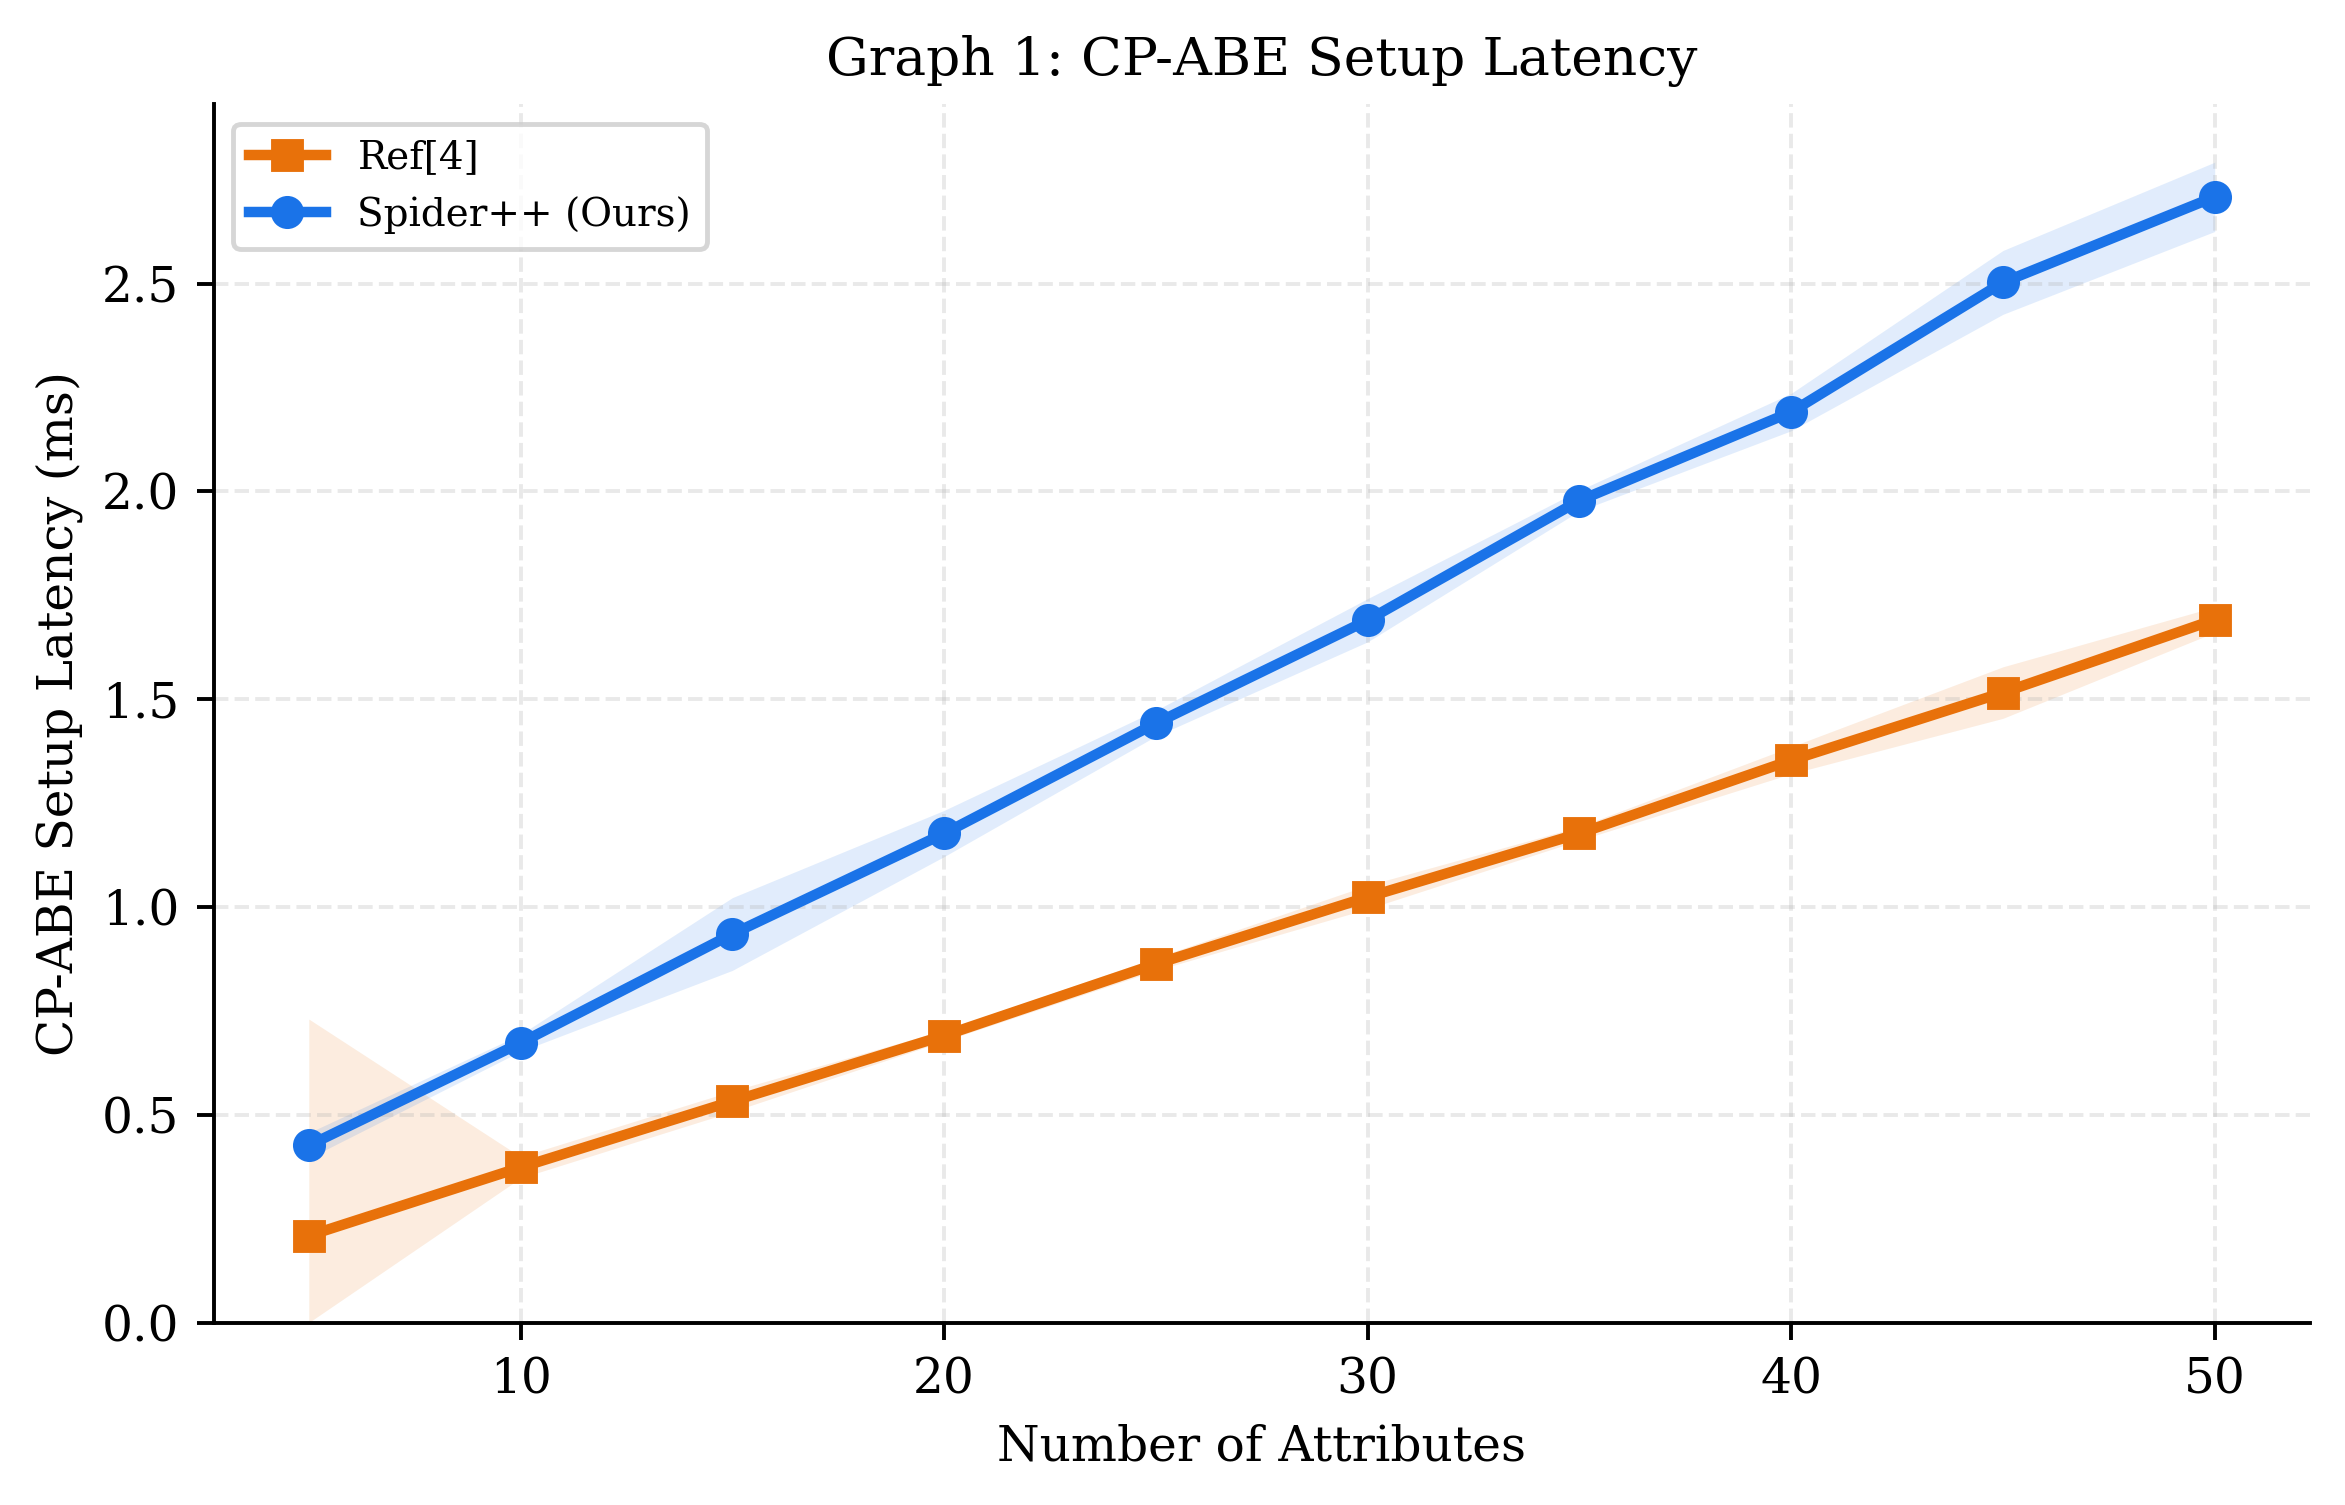
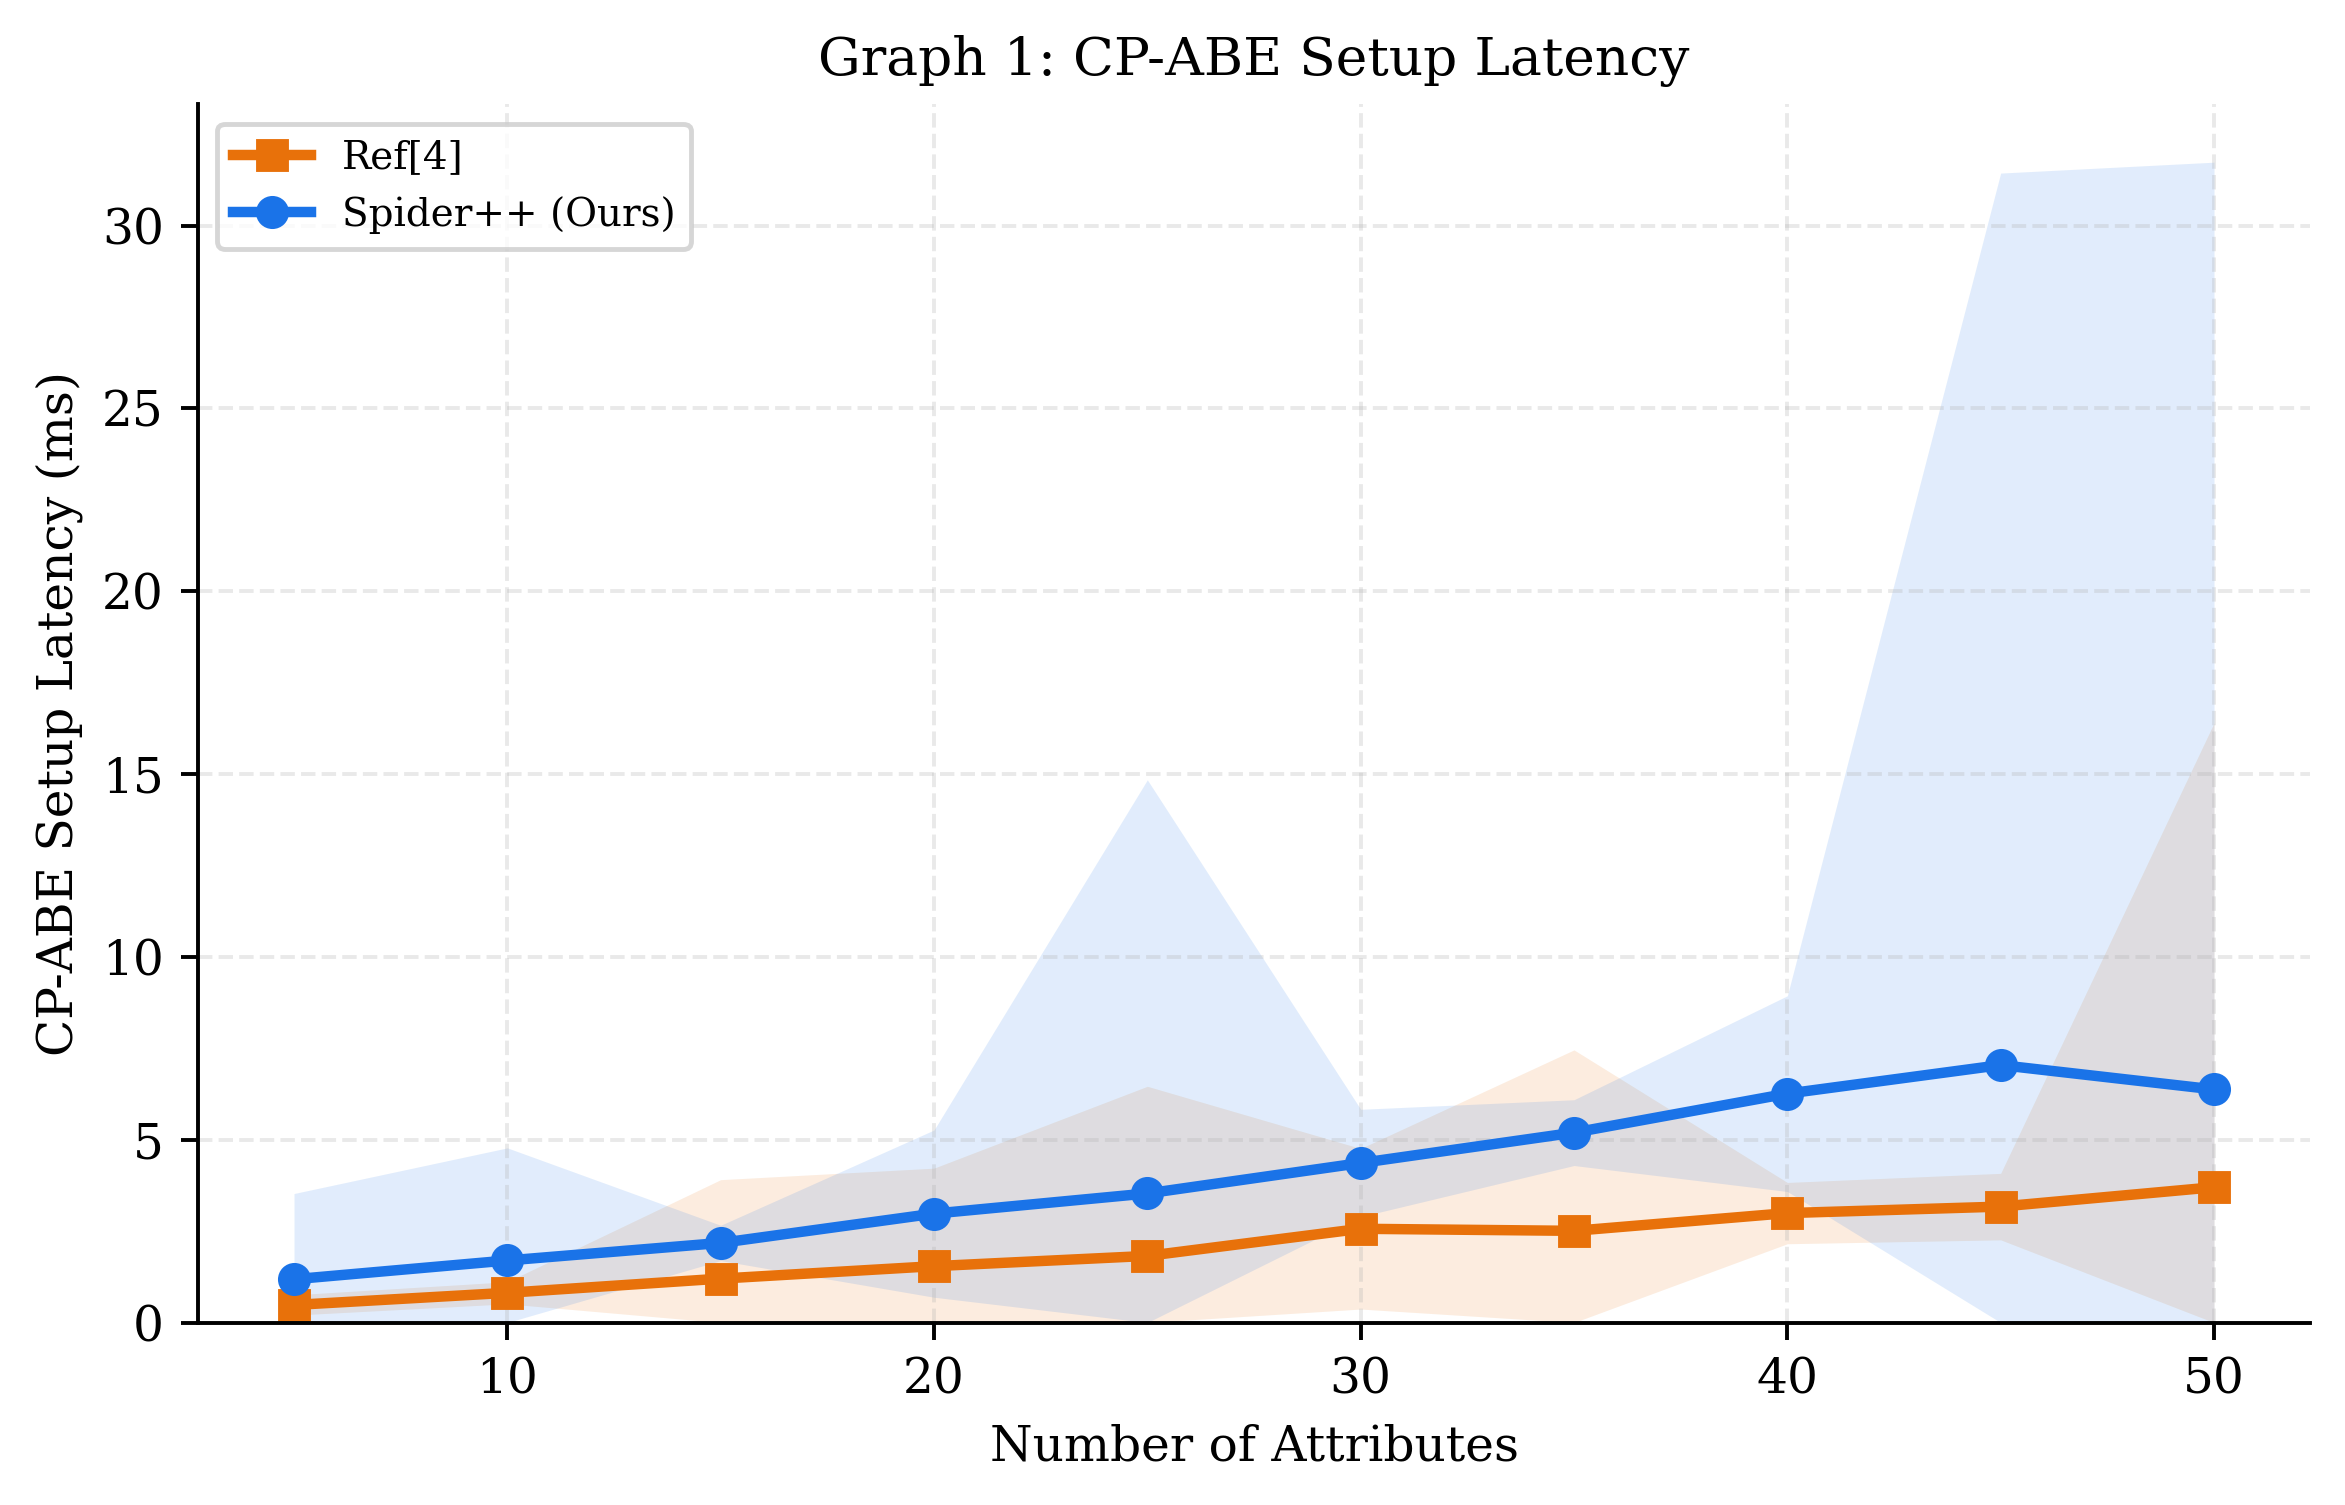
graph 7

diff --git a/evaluation/spiderpp_full_evaluation.py b/evaluation/spiderpp_full_evaluation.py
@@ -121,6 +121,8 @@ SCHEME_STYLES = {
     "Random Cache Placement": {"color": "#34A853", "marker": "s"},
     "No Delegation": {"color": "#E8710A", "marker": "x"},
     "Simple Retry / Reassignment": {"color": "#34A853", "marker": "v"},
+    "Round-Robin": {"color": "#E8710A", "marker": "s"},
+    "Least-Queue": {"color": "#34A853", "marker": "^"},
 }
 
 
@@ -1087,6 +1089,249 @@ def graph_load_balancing(
     return mean_series
 
 
+# ---------------------------------------------------------------------------
+# Part C-2: Intra-node enclave scheduling (Graph 7, Level 2)
+# ---------------------------------------------------------------------------
+
+
+@dataclass
+class Enclave:
+    """Single TEE enclave within a fog node (Eq 26 state model)."""
+
+    enc_id: int
+    service_rate: float       # µ_{j,k}  — ops/sec from OP-TEE benchmark
+    epc_total: float          # M_total  — bytes
+    epc_available: float      # M_free   — bytes (depletes per task)
+    contention: float = 0.0   # ρ_{j,k}  — runtime contention
+    queue_length: int = 0     # q_{j,k}  — current queue depth
+    available_ms: float = 0.0 # earliest time enclave becomes free
+    recent_count: int = 0     # workload affinity counter (Eq 45)
+
+
+def clone_enclaves(enclaves: List[Enclave]) -> List[Enclave]:
+    """Deep-copy enclave list so each algorithm starts from identical state."""
+    return [
+        Enclave(
+            enc_id=e.enc_id,
+            service_rate=e.service_rate,
+            epc_total=e.epc_total,
+            epc_available=e.epc_total,
+            contention=e.contention,
+            queue_length=0,
+            available_ms=0.0,
+            recent_count=0,
+        )
+        for e in enclaves
+    ]
+
+
+def generate_enclaves(n_enclaves: int, rng: np.random.Generator) -> List[Enclave]:
+    """
+    Create an enclave pool initialized from real OP-TEE measurements.
+    Falls back to config.py defaults if QEMU has not been run.
+    """
+    import config
+    from phase4_load_balance.optee_bench.loader import load_measurements
+
+    measurements = load_measurements(config)
+
+    base_rate = float(measurements.get("service_rate", config.MEASURED_SERVICE_RATE))
+    base_cont = float(measurements.get("contention", 0.0))
+    epc_per_enclave = config.EPC_BUDGET_BYTES / max(1, n_enclaves)
+
+    enclaves: List[Enclave] = []
+    for i in range(n_enclaves):
+        rate = max(10.0, base_rate * float(rng.uniform(0.92, 1.08)))
+        enclaves.append(
+            Enclave(
+                enc_id=i,
+                service_rate=rate,
+                epc_total=epc_per_enclave,
+                epc_available=epc_per_enclave,
+                contention=base_cont,
+            )
+        )
+    return enclaves
+
+
+def _enclave_score_eq46(
+    enc: Enclave,
+    epc_req: float,
+    tau: float,
+    z1: float, z2: float, z3: float, z4: float,
+) -> float:
+    """
+    Spider++ EnclaveScore (Eq 46) — mirrors phase4_load_balance/ours.py.
+
+    EnclaveScore = z1*T_wait + z2*P_epc + z3*P_cont - z4*A_affin
+    """
+    # Eq 42: T_wait = (q + 1) / mu
+    T_wait = (enc.queue_length + 1) / max(1.0, enc.service_rate)
+
+    # Eq 43: P_epc = max(0, M_req/M_free - tau)^2
+    M_free = max(1.0, enc.epc_available)
+    ratio = epc_req / M_free - tau
+    P_epc = max(0.0, ratio) ** 2
+
+    # Eq 44: P_cont = base_contention + q/mu (dynamic)
+    P_cont = enc.contention + enc.queue_length / max(1.0, enc.service_rate)
+
+    # Eq 45: A = 1 if similar workload recently processed
+    A_affin = 1.0 if enc.recent_count > 0 else 0.0
+
+    return z1 * T_wait + z2 * P_epc + z3 * P_cont - z4 * A_affin
+
+
+def choose_enclave(
+    enclaves: List[Enclave],
+    task_idx: int,
+    epc_req: float,
+    algorithm: str,
+    rng: np.random.Generator,
+) -> Enclave:
+    """
+    Intra-node enclave selection.
+
+    Round-Robin:  blind cyclic rotation (ignores all state)
+    Least-Queue:  picks enclave with shortest queue (ignores EPC/contention)
+    Spider++ (Eq 46): full EnclaveScore with wait, EPC, contention, affinity
+    """
+    import config
+
+    if algorithm == "Round-Robin":
+        return enclaves[task_idx % len(enclaves)]
+
+    elif algorithm == "Least-Queue":
+        return min(enclaves, key=lambda e: e.queue_length)
+
+    elif algorithm == "Spider++ (Ours)":
+        best_enc = None
+        best_score = float("inf")
+        for e in enclaves:
+            sc = _enclave_score_eq46(
+                e, epc_req,
+                tau=config.EPC_PRESSURE_TAU,
+                z1=config.Z1_ENC_WAIT,
+                z2=config.Z2_ENC_EPC,
+                z3=config.Z3_ENC_CONT,
+                z4=config.Z4_ENC_AFFIN,
+            )
+            if sc < best_score:
+                best_score = sc
+                best_enc = e
+        return best_enc  # type: ignore[return-value]
+
+    raise ValueError(f"Unknown algorithm: {algorithm}")
+
+
+def execute_on_enclave(
+    enc: Enclave,
+    task: WorkloadTask,
+    epc_req: float,
+    rng: np.random.Generator,
+) -> float:
+    """
+    Execute one task on chosen enclave and update its state.
+    Returns latency (ms) from task arrival to completion.
+    """
+    arrival = task.arrival_ms
+    start = max(arrival, enc.available_ms)
+
+    service_ms = (task.tee_work / max(0.1, enc.service_rate)) * float(rng.lognormal(0.0, 0.06))
+
+    # EPC swap penalty when memory exhausted
+    if enc.epc_available < epc_req:
+        service_ms += float(rng.uniform(25.0, 55.0))
+    else:
+        enc.epc_available -= epc_req
+
+    finish = start + service_ms
+
+    enc.queue_length += 1
+    enc.available_ms = finish
+    enc.contention = enc.queue_length / max(1.0, enc.service_rate)
+    enc.recent_count += 1
+
+    return float(finish - arrival)
+
+
+def simulate_intra_node(
+    n_tasks: int,
+    algorithm: str,
+    base_enclaves: List[Enclave],
+    seed: int,
+) -> float:
+    """
+    Run one intra-node scheduling experiment.
+    All algorithms get same task stream + same initial enclave state.
+    """
+    import config
+
+    alg_offset = {"Round-Robin": 7, "Least-Queue": 19, "Spider++ (Ours)": 41}[algorithm]
+    base_rng = np.random.default_rng(seed)
+    rng = np.random.default_rng(seed + alg_offset)
+
+    tasks = generate_tasks(n_tasks, base_rng, offered_load=1.3)
+    enclaves = clone_enclaves(base_enclaves)
+
+    epc_req = config.PACKET_EPC_BYTES
+
+    latencies = []
+    for i, task in enumerate(tasks):
+        enc = choose_enclave(enclaves, i, epc_req, algorithm, rng)
+        lat = execute_on_enclave(enc, task, epc_req, rng)
+        latencies.append(lat)
+
+    arr = np.array(latencies)
+    lo, hi = np.percentile(arr, [2, 98])
+    return float(arr[(arr >= lo) & (arr <= hi)].mean())
+
+
+def graph7_intra_enclave(rng: np.random.Generator, reps: int = 3) -> Dict[str, np.ndarray]:
+    """
+    Graph 7: Intra-node Multi-Enclave Scheduling (Level 2).
+
+    Compares three enclave routing strategies within a single fog node:
+      - Round-Robin: blind cyclic assignment
+      - Least-Queue: shortest queue first
+      - Spider++ (Eq 42-46): EnclaveScore with EPC + contention
+
+    Data source: OP-TEE measured telemetry via load_measurements().
+    """
+    N_ENCLAVES = 10
+    task_counts = np.array([50, 100, 150, 200, 250, 300])
+    algorithms = ["Round-Robin", "Least-Queue", "Spider++ (Ours)"]
+
+    base_enclaves = generate_enclaves(N_ENCLAVES, rng)
+
+    mean_series: Dict[str, np.ndarray] = {}
+    std_series: Dict[str, np.ndarray] = {}
+
+    for alg in algorithms:
+        rep_values: List[np.ndarray] = []
+        for rep in range(reps):
+            vals = []
+            for n in task_counts:
+                seed = GLOBAL_SEED + 70000 + 1000 * rep + 43 * int(n)
+                vals.append(simulate_intra_node(int(n), alg, base_enclaves, seed=seed))
+            rep_values.append(np.array(vals))
+        mean, std = summarize_runs(rep_values)
+        mean_series[alg] = mean
+        std_series[alg] = std
+
+    save_csv(RAW_DIR / "graph7_intra_node_enclaves.csv",
+             "Number of Tasks per Node", task_counts, mean_series)
+    plot_lines(
+        task_counts,
+        {k: (mean_series[k], std_series[k]) for k in algorithms},
+        "Graph 7: Intra-node Multi-Enclave Scheduling",
+        "Number of Tasks per Node",
+        "Average Enclave Latency (ms)",
+        "graph7_intra_node_scheduling",
+    )
+    return mean_series
+
+
 def simulate_recovery_time(failure_rate: float, method: str, seed: int) -> float:
     """
     Fair recovery simulation.  Per-task costs derived from measured values:
@@ -1210,7 +1455,8 @@ def run_all_graphs() -> None:
         print("  ! Graph 6 generation failed: graph_heterogeneous_fog module not found")
         pass
 
-    print("  - Graph 7 skipped by requirement")
+    graph7_intra_enclave(rng)
+    print("  ✓ Graph 7 generated")
 
     graph8_recovery(rng)
     print("  ✓ Graph 8 generated")

diff --git a/config.py b/config.py
@@ -130,6 +130,5 @@ GRAPH_TEST_ROUNDS = 5
 # ---------------------------------------------------------
 # 6. SPIDER++ FULL PAPER EVALUATION GRAPHS
 # ---------------------------------------------------------
-# Generates Graph 1, 2, 3, 4, 5, 6, and 8 for the paper-style
-# simulation requested for Spider++. Graph 7 is intentionally skipped.
+# Generates Graph 1-8 for the paper-style simulation.
 GENERATE_SPIDERPP_FULL_EVALUATION = True